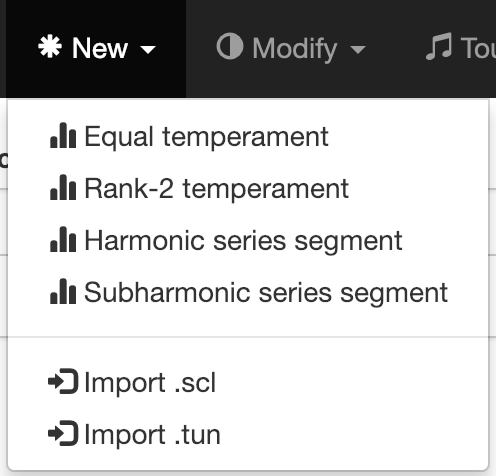
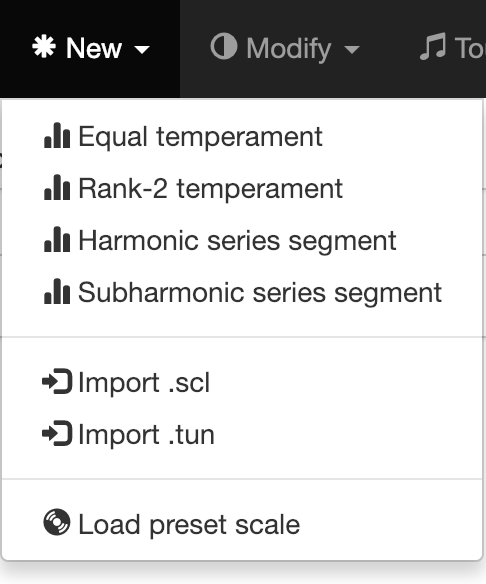
user guide improvements

diff --git a/index.htm b/index.htm
@@ -114,12 +114,12 @@
               <a class="dropdown-toggle" data-toggle="dropdown" href="#"><span class="glyphicon glyphicon-info-sign" aria-hidden="true"></span> About <span class="caret"></span></a>
               <ul class="dropdown-menu">
                 <li><a href="#" id="about_scale_workshop"><img src="assets/favicon/android-chrome-192x192.png" style="height:1em; width:auto;" /> About Scale Workshop</a></li>
-                <li><a href="guide.htm" target="_blank"><span class="glyphicon glyphicon-question-sign" aria-hidden="true"></span> User guide</a></li>
                 <li><a href="https://github.com/SeanArchibald/scale-workshop" target="_blank"><span class="glyphicon glyphicon-book" aria-hidden="true"></span> GitHub</a></li>
                 <li><a href="https://github.com/SeanArchibald/scale-workshop/issues" target="_blank"><span class="glyphicon glyphicon-send" aria-hidden="true"></span> Report issue</a></li>
                 <li><a href="http://sevish.com" target="_blank"><span class="glyphicon glyphicon-heart-empty" aria-hidden="true"></span> Made by Sevish</a></li>
               </ul>
             </li>
+            <li><a href="guide.htm" target="_blank"><span class="glyphicon glyphicon-question-sign" aria-hidden="true"></span> User guide</a></li>
           </ul>
         </div>
       </div>
@@ -134,7 +134,7 @@
               <input id="txt_name" name="base_frequency" type="text" class="form-control"></input>
             </div>
 
-            <label>Scale data</label>
+            <label>Scale data <a href="file:///Users/seanarchibald/repos/scaleworkshop/guide.htm#manual-data-entry" target="_blank"><span class="glyphicon glyphicon-question-sign" aria-hidden="true"></span></a></label>
             <div class="form-group">
               <textarea id="txt_tuning_data" class="form-control" rows="12" title="Enter one interval per line. Values with a . will be calculated as cents. Values with a backslash (n\m) are n degrees of m-EDO. Values with forward slash (/) are calculated as ratios. See the user guide for examples (About > User Guide)" placeholder=" "></textarea>
             </div>

diff --git a/guide.htm b/guide.htm
@@ -172,6 +172,7 @@
                 <li><a href="#kontakt">Kontakt script (.txt)</a></li>
               </ul>
             </li>
+            <li><a href="#presets">Presets</a></li>
           </ul>
         </li>
         <li><a href="#scale-design">Scale design</a>
@@ -263,6 +264,10 @@
 
       <h4 id="kontakt">Kontakt script (.txt)</h4>
       <p>Kontakt's scripting environment allows you to retune each key to any pitch. Scale Workshop can export this script for you automatically. Once exported, copy and paste the contents of the script into the script editor of your Kontakt instrument.</p>
+
+      <h3 id="presets">Presets</h3>
+      <p>A handful of preset scales are provided as examples.</p>
+      <p class="text-center"><a href="assets/img/guide/preset-scales.png" target="_blank"><img src="assets/img/guide/preset-scales.png" /></a></p>
 
 
       <h2 id="scale-design">Scale design</h2>

diff --git a/README.md b/README.md
@@ -91,6 +91,7 @@ Please base any work on develop branch, and pull requests should also be made ag
 * Added a selection of preset scales
 * Fix issue using delay in some situations
 * Fix issue stretching/compressing scales in some situations
+* Minor interface and user guide improvements
 
 ### 0.9.8
 * Fix .scl import bug
